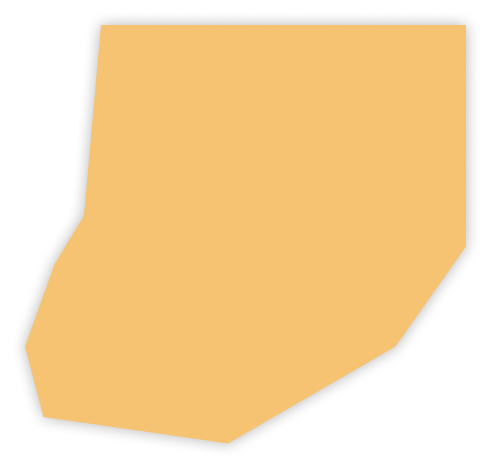
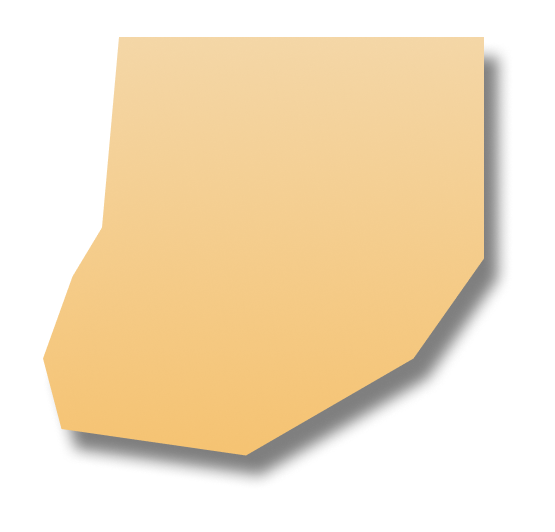
stigo sam do strelice

diff --git a/cv-port/style.css b/cv-port/style.css
@@ -144,14 +144,14 @@ nav h1 span {
 
 #poly1 {
     position: absolute;
-    top: -20px;
-    right: -16px;
+    top: -28px;
+    right: -47px;
     z-index: -1;
 }
 
 #poly1 img {
-    width: 19rem;
-    height: 22rem;
+    width: 23rem;
+    height: 25rem;
 }
 
 #links-frame-1 {
@@ -366,8 +366,8 @@ aside p {
 
 #poly-2-cont {
     position: absolute;
-    left: -41px;
-    bottom: -60px;
+    left: -51px;
+    bottom: -75px;
 }
 
 #poly-2-cont img {
@@ -376,42 +376,98 @@ aside p {
 
 main {
     position: relative;
-    height: 37rem;
+    height: 53rem;
+    display: flex;
+    flex-direction: row;
+    justify-content: space-between;
+    align-items: center;
+}
+
+#slide-cont {
+    background: linear-gradient(0deg, #F5C372, #F4D6A7);
+    width: 38rem;
+    height: 24rem;
+    position: relative;
+    left: 10.8%;
+    border-radius: 1rem;
+    display: flex;
+
+}
+
+#slide-cont-after {
+    content: "";
+    display: block;
+    width: 39rem;
+    height: 25rem;
+    background-color: #00000000;
+    position: absolute;
+    left: 95.5px;
+    border: 3px solid white;
+    border-radius: 1.5rem;
+}
+
+#arrows {
+    
 }
 
 #line-7 {
     position: absolute;
     width: 3px;
     background: white;
-    height: 42rem;
+    height: 60rem;
     top: -29px;
     right: 163px;
 }
 
-#line-8 {}
+#line-8 {
+    position: absolute;
+}
 
-#line-9 {}
+#line-9 {
+    position: absolute;
+}
 
-#line-10 {}
+#line-10 {
+    position: absolute;
+}
 
-#line-11 {}
+#line-11 {
+    position: absolute;
+}
 
 main aside {
     position: relative;
     display: flex;
-    align-items: center;
+    justify-content: center;
+    width: 163px;
+    height: 23rem;
 }
 
 #my-projects-list {
     display: flex;
     flex-direction: column;
     justify-content: space-between;
-    height: 23rem;
+    height: 367px;
     width: 5rem;
     text-align: center;
     list-style: none;
     padding: 0;
     margin: 0;
     position: relative;
-    left: 54rem;
+    color: white;
+}
+
+#todo {
+    color: #000000;
+}
+
+#poly-3-cont {
+    position: absolute;
+    right: -90px;
+    top: 290px;
+    z-index: -1;
+}
+
+#poly-3-cont img {
+    width: 17rem;
 }

diff --git a/cv-port/index.html b/cv-port/index.html
@@ -69,6 +69,7 @@
         </div>
     </section>
     <main>
+        <div id="slide-cont-after"></div>
         <div id="slide-cont">
             <div>
                 <img src="" alt="">
@@ -86,23 +87,23 @@
                 <img src="" alt="">
             </div>
         </div>
-        <div>
+        <div id="arrows">
             <div id="arrow-left"></div>
             <div id="arrow-right"></div>
         </div>
-        <div id="line-7"></div>
         <aside>
             <ul id="my-projects-list">
                 <li>calculator</li>
                 <li>guessing game</li>
                 <li>password generator</li>
                 <li>quotes generator</li>
-                <li>to-do list</li>
+                <li id="todo">to-do list</li>
             </ul>
-            <div>
-                <img src="" alt="">
+            <div id="poly-3-cont">
+                <img src="pics/poly-3.png" alt="">
             </div>
         </aside>
+        <div id="line-7"></div>
         <div id="line-8"></div>
         <div id="line-9"></div>
         <div id="line-10"></div>
